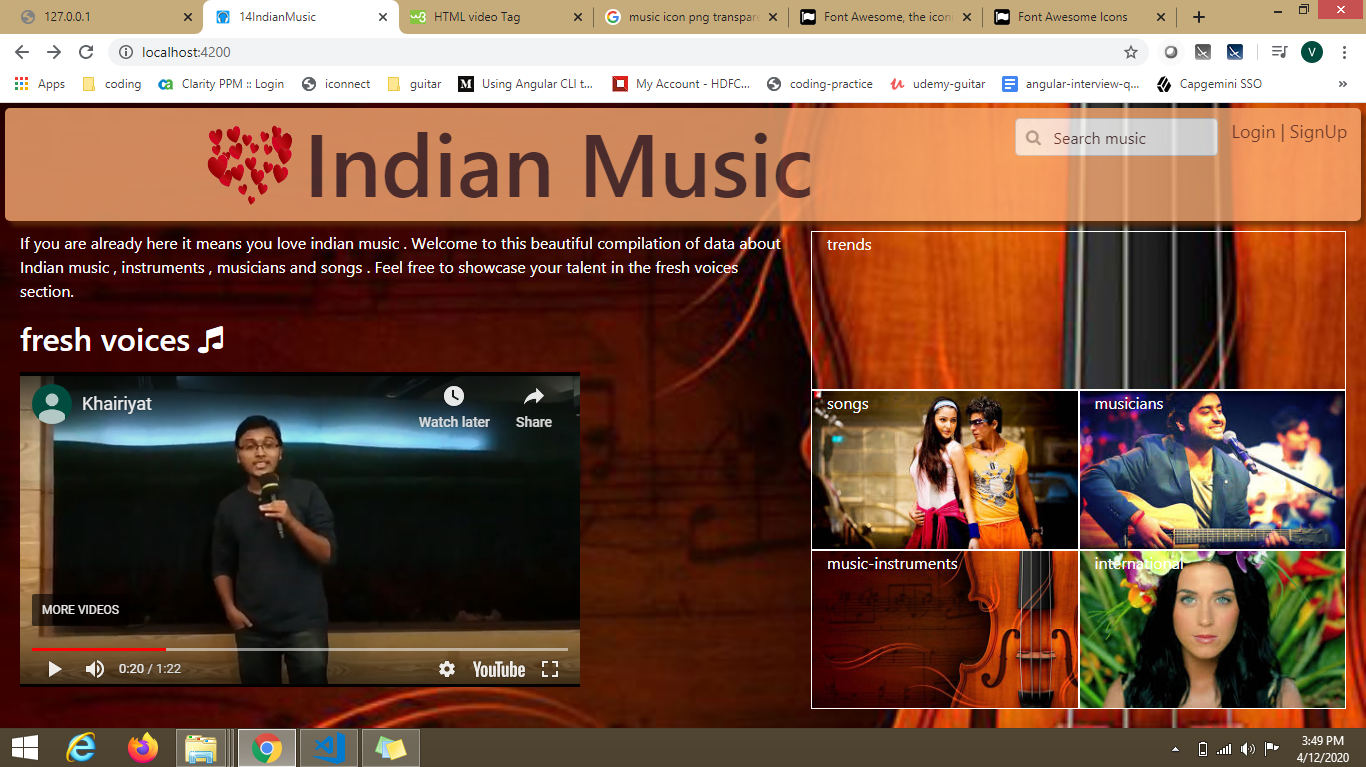
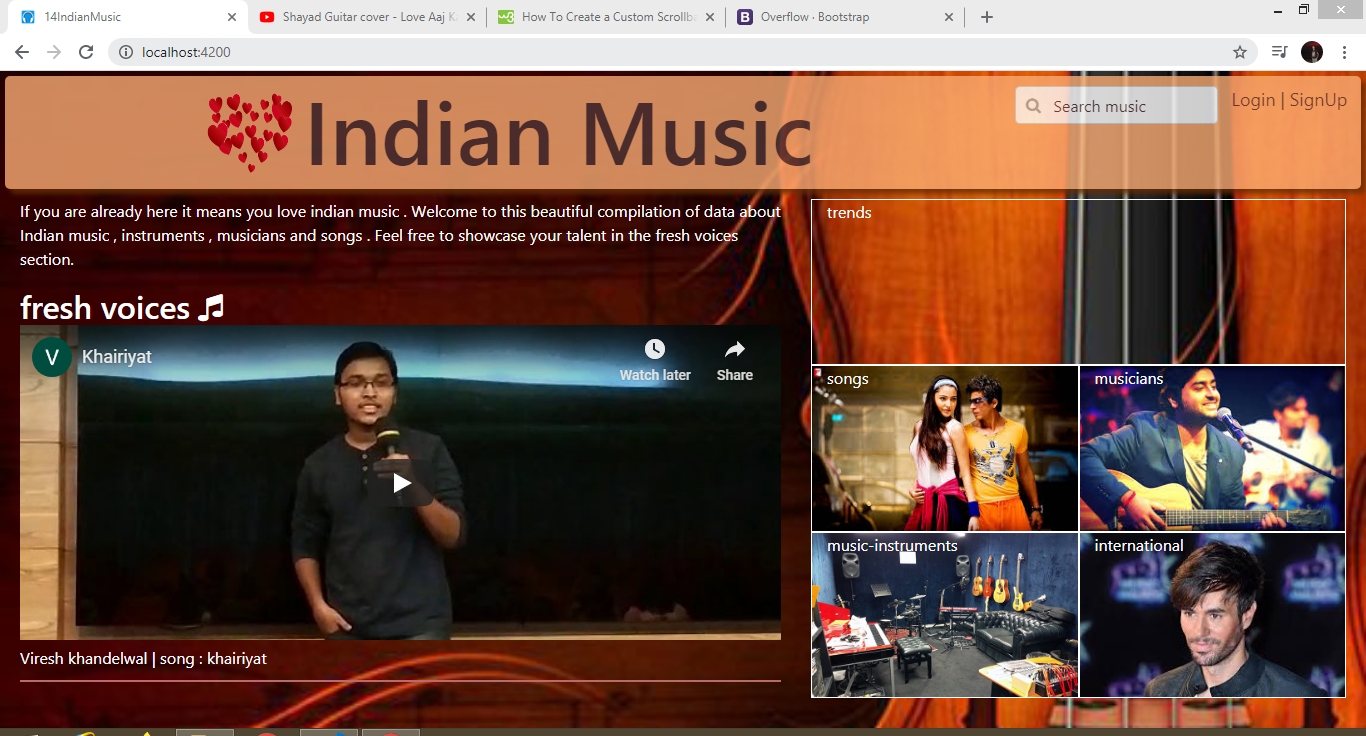
corrected timeout for trends carousal,updated images and screenshots , updated  video width

diff --git a/src/app/home/fresh-voices/fresh-voices.component.html b/src/app/home/fresh-voices/fresh-voices.component.html
@@ -6,7 +6,7 @@
     <ul class="fresh-voices-list">
       <li>
         <div class="youtube-video-container" >
-         <iframe width="560" height="315" src="https://www.youtube.com/embed/79f0U-2zm7w" frameborder="0" allow="accelerometer; autoplay; encrypted-media; gyroscope; picture-in-picture" allowfullscreen></iframe>
+         <iframe width="100%" height="315" src="https://www.youtube.com/embed/79f0U-2zm7w" frameborder="0" allow="accelerometer; autoplay; encrypted-media; gyroscope; picture-in-picture" allowfullscreen></iframe>
         </div>
         <div class="singer-info"> Viresh khandelwal | song : khairiyat</div>
         <hr>

diff --git a/src/app/home/home.component.scss b/src/app/home/home.component.scss
@@ -38,7 +38,7 @@
 }
 
 .home-instruments-cover{
-    background: url('../../assets/images/app-background.jpg') right / cover no-repeat;  
+    background: url('../../assets/images/music-instruments.jpg') right / cover no-repeat;  
 }
 .international-cover{
     background: url('../../assets/images/international-music-cover.jpg') right / cover no-repeat; 

diff --git a/src/app/home/home.component.ts b/src/app/home/home.component.ts
@@ -11,7 +11,7 @@ export class HomeComponent implements OnInit {
   ngOnInit() {
     setTimeout(() => {
       this.showWelcomeMessage = screen.width < 768 ? false : true;
-    }, 3000);
+    }, 30000);
   }
 
 }
